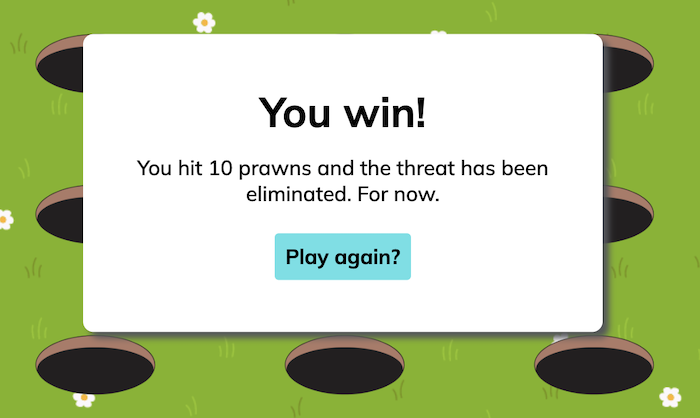
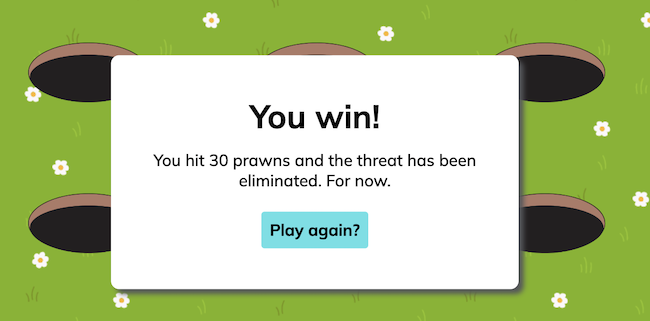
Finalise readme file

diff --git a/index.html b/index.html
@@ -15,9 +15,9 @@
         <nav class="top-nav">
             <div id="logo-div"><img id="logo" src="./assets/images/logo.png" alt="whack-a-prawn logo"></div>
             <ul class="nav-links">
-                <li aria-label="Toggle the music on or off" id="toggle-music"><i class="fa-solid fa-play"></i> play music</li>
-                <li aria-label="View the instructions for the game" id="view-instructions">instuctions</li>
-                <li aria-label="Start a new game"><p id ="start-game">start game</p></li>
+                <li id="toggle-music"><i class="fa-solid fa-play"></i> play music</li>
+                <li id="view-instructions">instuctions</li>
+                <li><p id ="start-game">start game</p></li>
             </ul>
         </nav>
     </header>

diff --git a/assets/css/style.css b/assets/css/style.css
@@ -296,7 +296,7 @@ header {
         margin-top: 2rem;
     }
     footer p {
-        font-size: 0.rem;
+        font-size: 0.7rem;
         padding: 0.2rem;
         text-align: left;
         padding-left: 2rem;

diff --git a/README.md b/README.md
@@ -1,17 +1,21 @@
 # __Whack-a-Prawn - Portfolio Project 2__
-This is a website for Whack-a-Prawn, a whack-a-mole style game with a twist. The user’s yard has been taken over by [Parktown Prawns](https://en.wikipedia.org/wiki/Parktown_prawn), a large species of (much-disliked) cricket native to South Africa. The user will have to eliminate a certain amount of prawns from the yard in order to win the game. If the user misses 5 prawns, they lose the game.
+This is a website for Whack-a-Prawn, a whack-a-mole style game with a twist. The user’s yard has been taken over by [Parktown Prawns](https://en.wikipedia.org/wiki/Parktown_prawn), a large species of (much-disliked) cricket native to South Africa. The user will have to eliminate a certain amount of prawns from the yard in order to win the game. If the user misses 10 prawns, they lose the game. If they hit 30 prawns, they win the game.
 
 The aim of this project was to build an interactive front-end site using Javascript, which responds to the user's actions and changes the way the site displays information according to said actions.
 
 [Live website link](https://h-bails.github.io/whack-a-prawn/)
 
+![Site preview](./assets/images/mockup-all-devices.png)
+
 ## __Value to the user__
 
-I wanted to create a game that was familiar, but with a bit of a twist. Parktown Prawns are a very large, sometimes aggressive type of cricket native to South Africa, particularly the Highveld region. We all know we shouldn't squish them - they're valuable to the ecosystem - but we REALLY want to! This game gives the user an outlet for that frustration :) Of course, I anticipate that this game would be more popular with South African users given the infamy of the Parktown Prawn in popular culture and its ubiquity in everyday life in Johannesburg. 
+I wanted to create a game that was familiar, but with a bit of a twist. Parktown Prawns are a very large, sometimes aggressive type of cricket native to South Africa, particularly the Highveld region. We all know we shouldn't squish them (they're actually valuable to the ecosystem and actually not at all a threat to one's garden) but we REALLY want to! This game gives the user an outlet for that frustration :) Of course, I anticipate that this game would be more popular with South African users given the infamy of the Parktown Prawn in popular culture and its ubiquity in everyday life in Johannesburg. 
+
+The game is well suited to users looking for an element of challenge or wanting to text their dexterity, as it gets more difficult the higher the score!
 
 
 ## __UX & Design__
-This is a simple game requiring only one page, with modal pop-ups for instructions and notifications. The remaining design is fairly simple, allowing the user to focus on the game without distraction.
+This is a simple game requiring only one page, with modal pop-ups for instructions and notifications. The remaining design is fairly straightforward, allowing the user to focus on the game without distraction. I did want to make it look quite cartoonish, as it's intended to be a fun and light-hearted game.
 
 ## __Wireframes__
 Before the project build commenced, I used Figma to draw a loose mockup of the final result. 
@@ -77,13 +81,13 @@ I designed the logo myself using [Canva](https://canva.com).
 
 
 - __'You Win' Modal__
-    - Appears when 10 or more prawns are whacked. A sound effect plays and the button will reset the game.
+    - Appears when 10 or more prawns are whacked. A sound effect plays and clicking the button will reset the game.
     
 
     ![Instructions modal box](./assets/images/win-modal.png)
 
 - __'You Lose' Modal__
-    - Appears when 5 or more prawns are missed. A sound effect plays and the background image changes. The button will reset the game.
+    - Appears when 5 or more prawns are missed. A sound effect plays and the background image changes. Clicking the button will reset the game.
     
 
     ![Instructions modal box](./assets/images/lose-modal.png)
@@ -130,11 +134,13 @@ I designed the logo myself using [Canva](https://canva.com).
     - Used to generate a favicon for the project.
 - [Font Awesome](http://favicon.io)
     - Used to generate footer icons.
+- [Websitemockupgenerator.com](https://websitemockupgenerator.com/)
+    - Used to generate responsive mockups.
 
 ## __Testing__
 
 - __Manual Testing__
-    - The quiz was manually tested on a MacBook Pro, Samsung S10 and Google Chromebook. It was manually tested in both Chrome, Safari and Firefox.
+    - The quiz was manually tested on a MacBook Pro, Samsung S10 and Google Chromebook. It was tested in Chrome, Safari and Firefox.
     - Developer Tools was used to make sure everything was responsive.
 
 
@@ -169,7 +175,7 @@ I designed the logo myself using [Canva](https://canva.com).
 
 ## __Unfixed bugs__
 
-- The 'whack' sound sometimes lags on Safari. This is a known bug and will be fixed in future.
+- The 'whack' sound sometimes lags when the prawns speed up, especially in Safari. This is a known bug and will be fixed in future.
 
 ## __Deployment__
 
